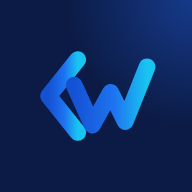
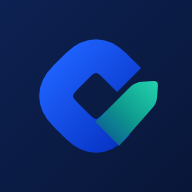
Identidade de marca nova: símbolo, cores, frase e ícones do app
Símbolo (faixa azul em losango arredondado com a folha verde-água) no login,
no menu e no cadastro; cores azul #1A5CF0 e verde-água #22D3A6 no lugar do
azul-claro; frase "Conectando empresas, pessoas e oportunidades." embaixo da
logo; ícones do app instalado, favicon e icons/simbolo.svg refeitos.

Claude-Session: https://claude.ai/code/session_01PcdnKjGExWxGscGtZmNanN

diff --git a/css/app.css b/css/app.css
@@ -1,7 +1,7 @@
 /* Conectwork · estilos do app. Cores, fonte e componentes seguem docs/prototipo-referencia.html. */
 :root{
-  --navy:#081638;--navy2:#0D2152;--blue:#1763E6;--blue2:#2F7BFF;--cyan:#18C5F0;
-  --grad:linear-gradient(120deg,#1452D4 0%,#1E74F0 55%,#18C5F0 100%);
+  --navy:#081638;--navy2:#0D2152;--blue:#1A5CF0;--blue2:#3B7BFF;--cyan:#22D3A6;--teal:#12B394;
+  --grad:linear-gradient(120deg,#0F45E0 0%,#1F63FF 55%,#22D3A6 100%);
   --bg:#F0F3F9;--surface:#FFFFFF;--surface2:#F6F8FC;--ink:#0A1838;--muted:#5E6A88;--faint:#8F9AB5;--line:#E1E7F1;
   --ok:#0A7B55;--okbg:#DEF5EA;--warn:#9A5B00;--warnbg:#FFF0D6;--info:#1450C0;--infobg:#E3ECFE;--danger:#B42D24;--dangerbg:#FCE8E6;
   --shadow:0 1px 2px rgba(8,22,56,.04),0 6px 20px -12px rgba(8,22,56,.14);
@@ -57,12 +57,12 @@ h1,h2,h3{letter-spacing:-.015em}
 .bp-topo{position:relative}
 .bp-topo>svg{width:clamp(92px,7.6vw,150px);height:auto}
 .brandpanel h1{font-size:clamp(36px,3.1vw,60px);font-weight:600;letter-spacing:-.03em;line-height:1.05;margin:clamp(16px,2.6vh,30px) 0 clamp(8px,1.2vh,14px)}
-.brandpanel h1 span,.logo b{background:var(--grad);-webkit-background-clip:text;background-clip:text;color:transparent}
-.brandpanel .slogan{letter-spacing:.3em;font-size:clamp(10.5px,.78vw,14px);color:#9DB1E0;font-weight:500}
+.brandpanel h1 span,.logo b{color:#3B7BFF}
+.brandpanel .slogan{letter-spacing:.02em;font-size:clamp(13px,.95vw,17px);color:#B9C8EC;font-weight:500}
 .brandpanel .tagline{position:relative;font-size:clamp(20px,1.75vw,34px);line-height:1.35;color:#fff;font-weight:500;margin:clamp(20px,3.4vh,40px) 0 0;max-width:24ch}
 .beneficios{position:relative;list-style:none;margin:clamp(20px,3.6vh,44px) 0 0;padding:0;display:flex;flex-direction:column;gap:clamp(10px,1.8vh,20px)}
 .beneficios li{display:flex;gap:12px;align-items:center;font-size:clamp(14px,1.02vw,18px);color:#C5D3F2}
-.beneficios svg.i{flex:none;width:clamp(34px,2.4vw,44px);height:clamp(34px,2.4vw,44px);padding:clamp(8px,.6vw,10px);border-radius:10px;background:rgba(24,197,240,.12);color:var(--cyan)}
+.beneficios svg.i{flex:none;width:clamp(34px,2.4vw,44px);height:clamp(34px,2.4vw,44px);padding:clamp(8px,.6vw,10px);border-radius:10px;background:rgba(34,211,166,.12);color:var(--cyan)}
 .selos{position:relative;display:flex;flex-wrap:wrap;gap:8px;margin-top:auto;padding-top:clamp(24px,4vh,48px)}
 .selos span{border:1px solid rgba(157,177,224,.35);border-radius:999px;padding:6px 12px;font-size:clamp(12px,.82vw,14px);color:#C5D3F2;background:rgba(255,255,255,.05)}
 .loginside{position:relative;min-width:0;padding:clamp(24px,5vh,72px) clamp(16px,4.2vw,88px);display:flex;flex-direction:column;gap:24px;justify-content:center;align-items:center}
@@ -150,7 +150,7 @@ h1,h2,h3{letter-spacing:-.015em}
 .nav{display:flex;flex-direction:column;gap:3px;position:relative}
 .nav button{display:flex;align-items:center;gap:12px;background:none;border:0;padding:11px 12px;border-radius:10px;color:#AFC0E6;cursor:pointer;text-align:left;font-weight:500;position:relative}
 .nav button:hover{background:rgba(255,255,255,.05);color:#fff}
-.nav button[aria-current="page"]{background:linear-gradient(90deg,rgba(47,123,255,.28),rgba(24,197,240,.06));color:#fff}
+.nav button[aria-current="page"]{background:linear-gradient(90deg,rgba(47,123,255,.28),rgba(34,211,166,.06));color:#fff}
 .nav button[aria-current="page"]::before{content:"";position:absolute;left:-16px;top:8px;bottom:8px;width:3px;border-radius:0 3px 3px 0;background:var(--cyan)}
 .usercard{margin-top:auto;display:flex;align-items:center;gap:10px;background:rgba(255,255,255,.05);border:1px solid rgba(255,255,255,.07);border-radius:12px;padding:10px;position:relative}
 .usercard .t{min-width:0;flex:1}

diff --git a/js/ui.js b/js/ui.js
@@ -49,9 +49,10 @@
     star: '<path d="m12 3 2.7 5.6 6.1.9-4.4 4.3 1 6.1L12 17l-5.4 2.9 1-6.1-4.4-4.3 6.1-.9z"/>'
   };
   const ic = (n, c) => `<svg class="i ${c || ''}" viewBox="0 0 24 24" aria-hidden="true">${I[n] || I.grid}</svg>`;
-  const LOGO = (w = 34) => `<svg width="${w}" height="${Math.round(w * .76)}" viewBox="0 0 34 26" aria-hidden="true"><defs><linearGradient id="lg${w}" x1="0" x2="1"><stop offset="0" stop-color="#1452D4"/><stop offset=".55" stop-color="#1E74F0"/><stop offset="1" stop-color="#18C5F0"/></linearGradient></defs><path d="M12 3 4 13l8 10" fill="none" stroke="url(#lg${w})" stroke-width="4.6" stroke-linecap="round" stroke-linejoin="round"/><path d="M11 10l5 11 5-9 4 8 6-15" fill="none" stroke="url(#lg${w})" stroke-width="4.6" stroke-linecap="round" stroke-linejoin="round"/></svg>`;
+  /* símbolo da marca (identidade de 11/2026): faixa azul em losango arredondado + folha verde-água */
+  const LOGO = (w = 34) => `<svg width="${w}" height="${w}" viewBox="0 0 100 100" aria-hidden="true"><defs><linearGradient id="lga${w}" x1="0" y1="0" x2="1" y2="1"><stop offset="0" stop-color="#1F63FF"/><stop offset="1" stop-color="#0733C4"/></linearGradient><linearGradient id="lgb${w}" x1="0" y1="1" x2="1" y2="0"><stop offset="0" stop-color="#0A4C8A"/><stop offset=".5" stop-color="#0FA394"/><stop offset="1" stop-color="#24DFB3"/></linearGradient></defs><path d="M70.5 40.1 61.3 30.9Q50 19.6 38.7 30.9L30.9 38.7Q19.6 50 30.9 61.3L38.7 69.1Q50 80.4 61.3 69.1L63.5 66.9" fill="none" stroke="url(#lga${w})" stroke-width="21"/><path d="M49.6 66 71 44.6Q74 41.6 78.5 41.2L85.5 40.7Q88.6 40.5 88.4 43.6L87.9 50.6Q87.6 54.8 84.8 57.6L64.4 80.8Z" fill="url(#lgb${w})" fill-opacity=".94"/></svg>`;
   const CURVES = `<svg class="curves" viewBox="0 0 400 600" preserveAspectRatio="xMidYMid slice" aria-hidden="true"><g fill="none" stroke="#2F6BEA" stroke-opacity=".25" stroke-width="1"><path d="M-40 420C80 380 160 300 220 200S380 40 460 20"/><path d="M-40 470C90 430 180 350 240 250S390 90 470 70"/><path d="M-40 520C100 480 200 400 260 300S400 140 480 120"/><circle cx="420" cy="580" r="160"/><circle cx="420" cy="580" r="230"/></g></svg>`;
-  const GRADS = ['linear-gradient(135deg,#1452D4,#18C5F0)', 'linear-gradient(135deg,#0D2152,#2F7BFF)', 'linear-gradient(135deg,#0E7FA8,#18C5F0)', 'linear-gradient(135deg,#3B3FD8,#2F7BFF)', 'linear-gradient(135deg,#0A5E8E,#1763E6)'];
+  const GRADS = ['linear-gradient(135deg,#1A5CF0,#22D3A6)', 'linear-gradient(135deg,#0D2152,#3B7BFF)', 'linear-gradient(135deg,#0A7F8C,#22D3A6)', 'linear-gradient(135deg,#3B3FD8,#2F7BFF)', 'linear-gradient(135deg,#0A5E8E,#1763E6)'];
   const iniciais = n => String(n || '?').replace(/\b(MEI|Ltda|S\.?A\.?)\b/gi, '').trim().split(/\s+/).slice(0, 2).map(w => w[0] || '').join('').toUpperCase() || '?';
   /* empId: quando a empresa tem logo (logos/{empId}), modulos/logos.js troca as iniciais pela logo */
   const avatar = (nome, cls, empId) => { let h = 0; for (const ch of String(nome || '')) h = (h * 31 + ch.charCodeAt(0)) >>> 0;

diff --git a/testes/teste-pwa.js b/testes/teste-pwa.js
@@ -55,7 +55,7 @@ const servidor = http.createServer((req, res) => {
   ok('P1 manifest carrega com nome, descrição, idioma, início, modo app e cores da tela de entrada',
     p1.ok && m.name === 'Conectwork' && m.short_name === 'Conectwork' && m.lang === 'pt-BR' && m.start_url === './' && m.scope === './' && m.display === 'standalone'
     && m.theme_color === '#081638' && m.background_color === '#081638'
-    && m.description === 'Plataforma mais completa em outsourcing. Toda papelada e burocracia em um só lugar, na palma da sua mão.', JSON.stringify(m).slice(0, 300));
+    && m.description === 'Conectando empresas, pessoas e oportunidades. Toda papelada e burocracia em um só lugar, na palma da sua mão.', JSON.stringify(m).slice(0, 300));
   ok('P2 ícones 192, 512 e maskable carregam (PNG)', (p1.icones || []).length === 3 && p1.icones.every(i => i.ok && /png/.test(i.tipo)) && p1.icones.some(i => i.purpose === 'maskable'), JSON.stringify(p1.icones));
 
   const p3 = await page.evaluate(() => {

diff --git a/testes/teste-login.js b/testes/teste-login.js
@@ -25,7 +25,7 @@ const { ok, fim } = H.placar('login');
       velhos: /Cada pessoa entra com o próprio login|Integração que conecta empresas/i.test(tudo) };
   });
   ok('L1b painel: slogan, frase de destaque, 3 benefícios e 3 selos (sem os ícones antigos)',
-    l1b.slogan === 'PLATAFORMA MAIS COMPLETA EM OUTSOURCING' && l1b.tag === 'Toda papelada e burocracia em um só lugar, na palma da sua mão.'
+    l1b.slogan === 'Conectando empresas, pessoas e oportunidades.' && l1b.tag === 'Toda papelada e burocracia em um só lugar, na palma da sua mão.'
     && JSON.stringify(l1b.ben) === JSON.stringify(['Contratos, entregas e notas organizados', 'Pagamentos com data e comprovante', 'Documentos e conformidade em dia'])
     && JSON.stringify(l1b.selos) === JSON.stringify(['Empresas que contratam', 'Prestadoras', 'Profissionais MEI']) && l1b.pilares === 0, JSON.stringify(l1b));
   ok('L1c cartão: subtítulo, placeholder, divisória, dois botões e aviso de termos; frases antigas removidas',

diff --git a/js/sessao.js b/js/sessao.js
@@ -64,7 +64,7 @@
     document.documentElement.classList.add('entrada');
     app().innerHTML = `<div class="login">${CURVES}
       <section class="brandpanel">
-        <div class="bp-topo">${LOGO(120)}<div><h1>Conect<span>work</span></h1><div class="slogan">PLATAFORMA MAIS COMPLETA EM OUTSOURCING</div></div></div>
+        <div class="bp-topo">${LOGO(120)}<div><h1>Conect<span>work</span></h1><div class="slogan">Conectando empresas, pessoas e oportunidades.</div></div></div>
         <p class="tagline">Toda papelada e burocracia em um só lugar, na palma da sua mão.</p>
         <ul class="beneficios">
           <li>${ic('file')}<span>Contratos, entregas e notas organizados</span></li>

diff --git a/index.html b/index.html
@@ -4,7 +4,7 @@
 <meta charset="utf-8">
 <meta name="viewport" content="width=device-width, initial-scale=1, viewport-fit=cover">
 <meta name="theme-color" content="#081638">
-<meta name="description" content="Plataforma mais completa em outsourcing. Toda papelada e burocracia em um só lugar, na palma da sua mão.">
+<meta name="description" content="Conectwork: conectando empresas, pessoas e oportunidades. Toda papelada e burocracia em um só lugar, na palma da sua mão.">
 <title>Conectwork</title>
 <!-- app instalável (manifest e ícones) e iPhone -->
 <link rel="manifest" href="manifest.webmanifest">

diff --git a/sw.js b/sw.js
@@ -2,7 +2,7 @@
    Troque VERSAO a cada publicação: o navegador percebe a mudança, instala a versão nova e apaga os caches antigos.
    Guarda só os arquivos do próprio app, para abrir sem internet. Estratégia: rede primeiro, cache se offline.
    NUNCA guarda Firebase (login e banco), fontes externas nem nada de outra origem: esses pedidos nem passam por aqui. */
-const VERSAO = 'conectwork-v31';
+const VERSAO = 'conectwork-v32';
 
 const ARQUIVOS = [
   './', 'index.html', 'config.js', 'manifest.webmanifest', 'css/app.css',

diff --git a/CLAUDE.md b/CLAUDE.md
@@ -47,7 +47,8 @@ testes/               testes automatizados
 
 ## Identidade e comunicação
 - Na interface aparece **só o nome Conectwork**. Nunca usar marcas de terceiros em telas, textos ou dados de exemplo (os dados reais das empresas do piloto existem só no banco de produção). Única exceção: os botões de login "Google" e "Microsoft", com o símbolo de cada um (padrão exigido por eles).
-- Mensagem principal: "Contrate serviços com mais organização, rastreabilidade e gestão de riscos." Slogan: "Plataforma mais completa em outsourcing · Toda papelada e burocracia em um só lugar, na palma da sua mão."
+- **Marca (identidade aprovada em 07/11/2026):** símbolo = faixa azul em losango arredondado com a folha verde-água (`CW.ui.LOGO`, `icons/simbolo.svg`); "Conect" em branco ou azul-marinho e "work" em azul. Cores: azul `#1A5CF0`, azul-marinho `#0B1A45`/`#081638`, verde-água `#22D3A6`, cinza-claro `#E8ECF5`.
+- Frase da marca, embaixo da logo: "Conectando empresas, pessoas e oportunidades." Mensagem principal: "Contrate serviços com mais organização, rastreabilidade e gestão de riscos." Texto do login: "Toda papelada e burocracia em um só lugar, na palma da sua mão."
 - Nunca prometer "sem risco trabalhista", "blindagem" ou garantia contra processos. Aviso padrão: "O Conectwork organiza a contratação e a gestão documental. A validade da relação depende da operação real, da legislação aplicável e da análise jurídica e contábil adequada."
 - **Consentimentos separados** (operacional, contrato, cobrança, cursos, ofertas, WhatsApp, e-mail, push). Cursos e ofertas **desmarcados por padrão**; registrar texto, versão, data, finalidade, canal e revogação.
 
